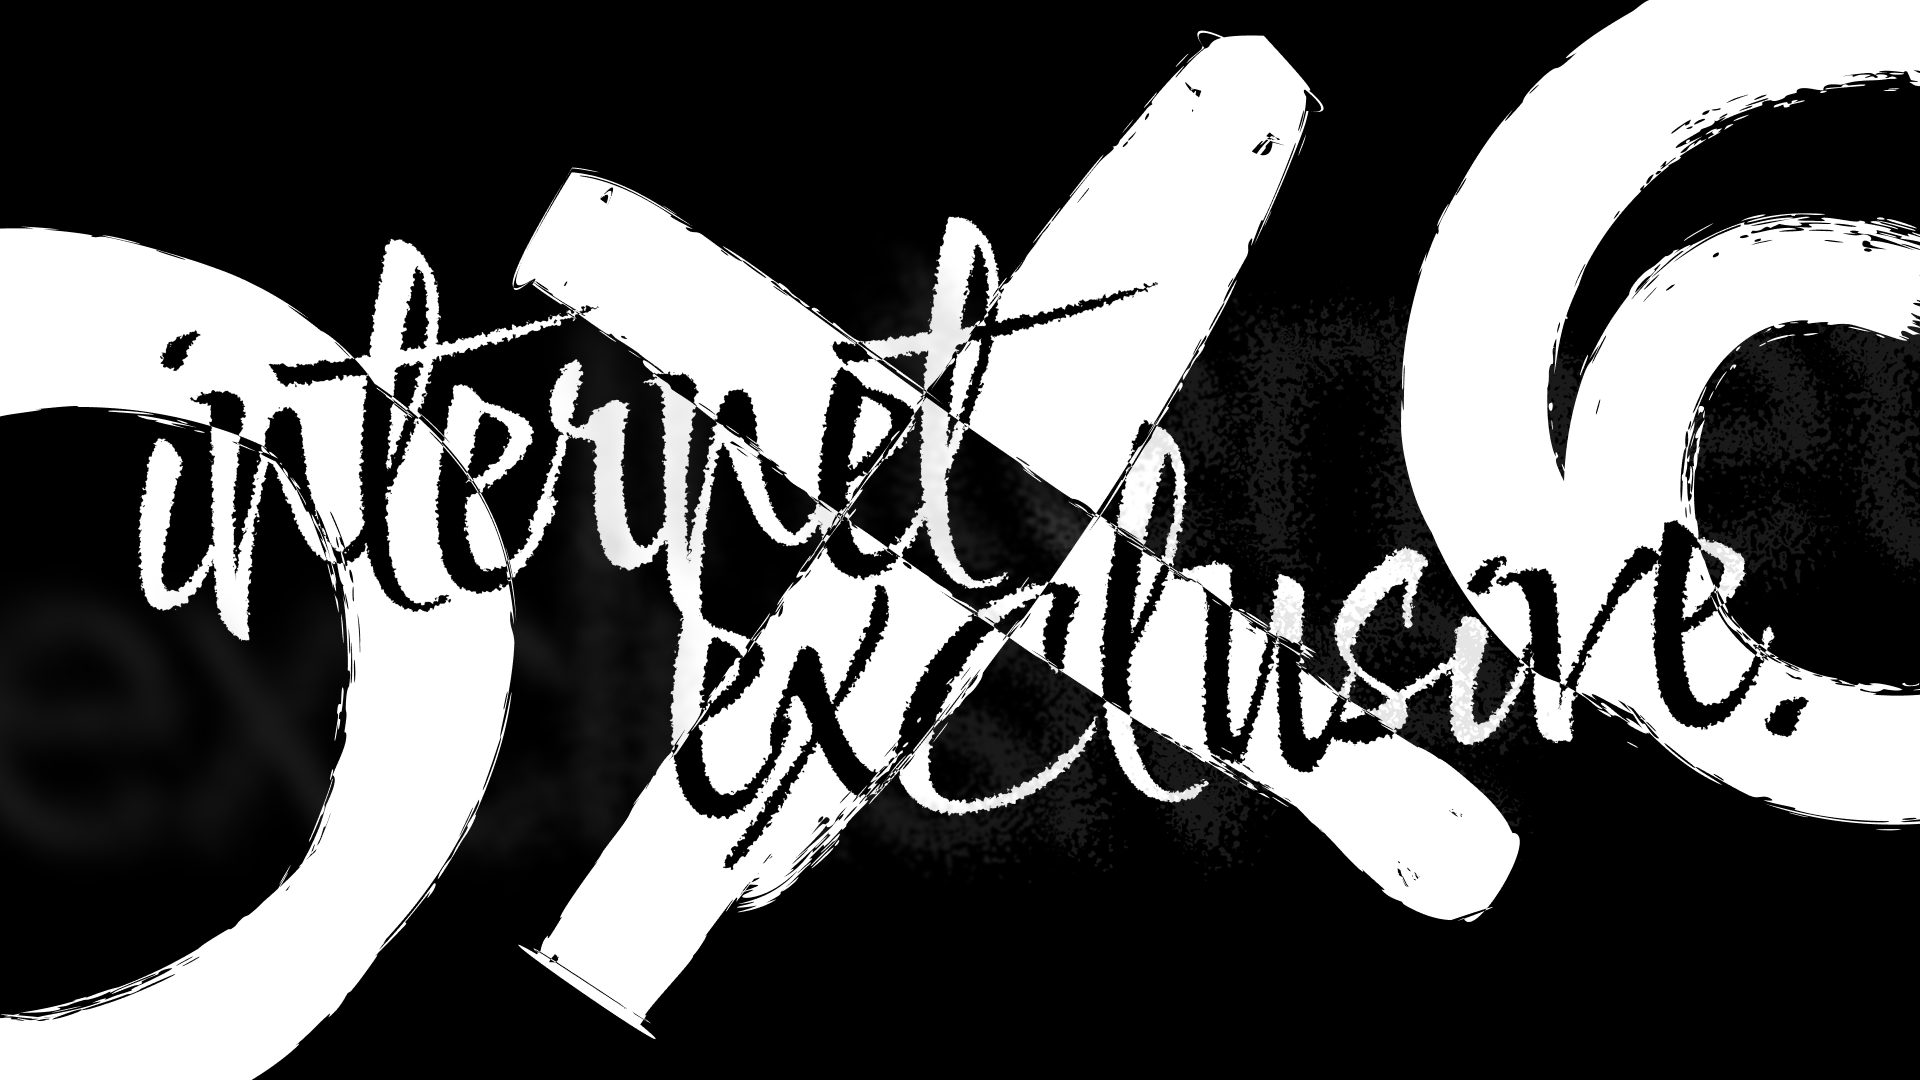
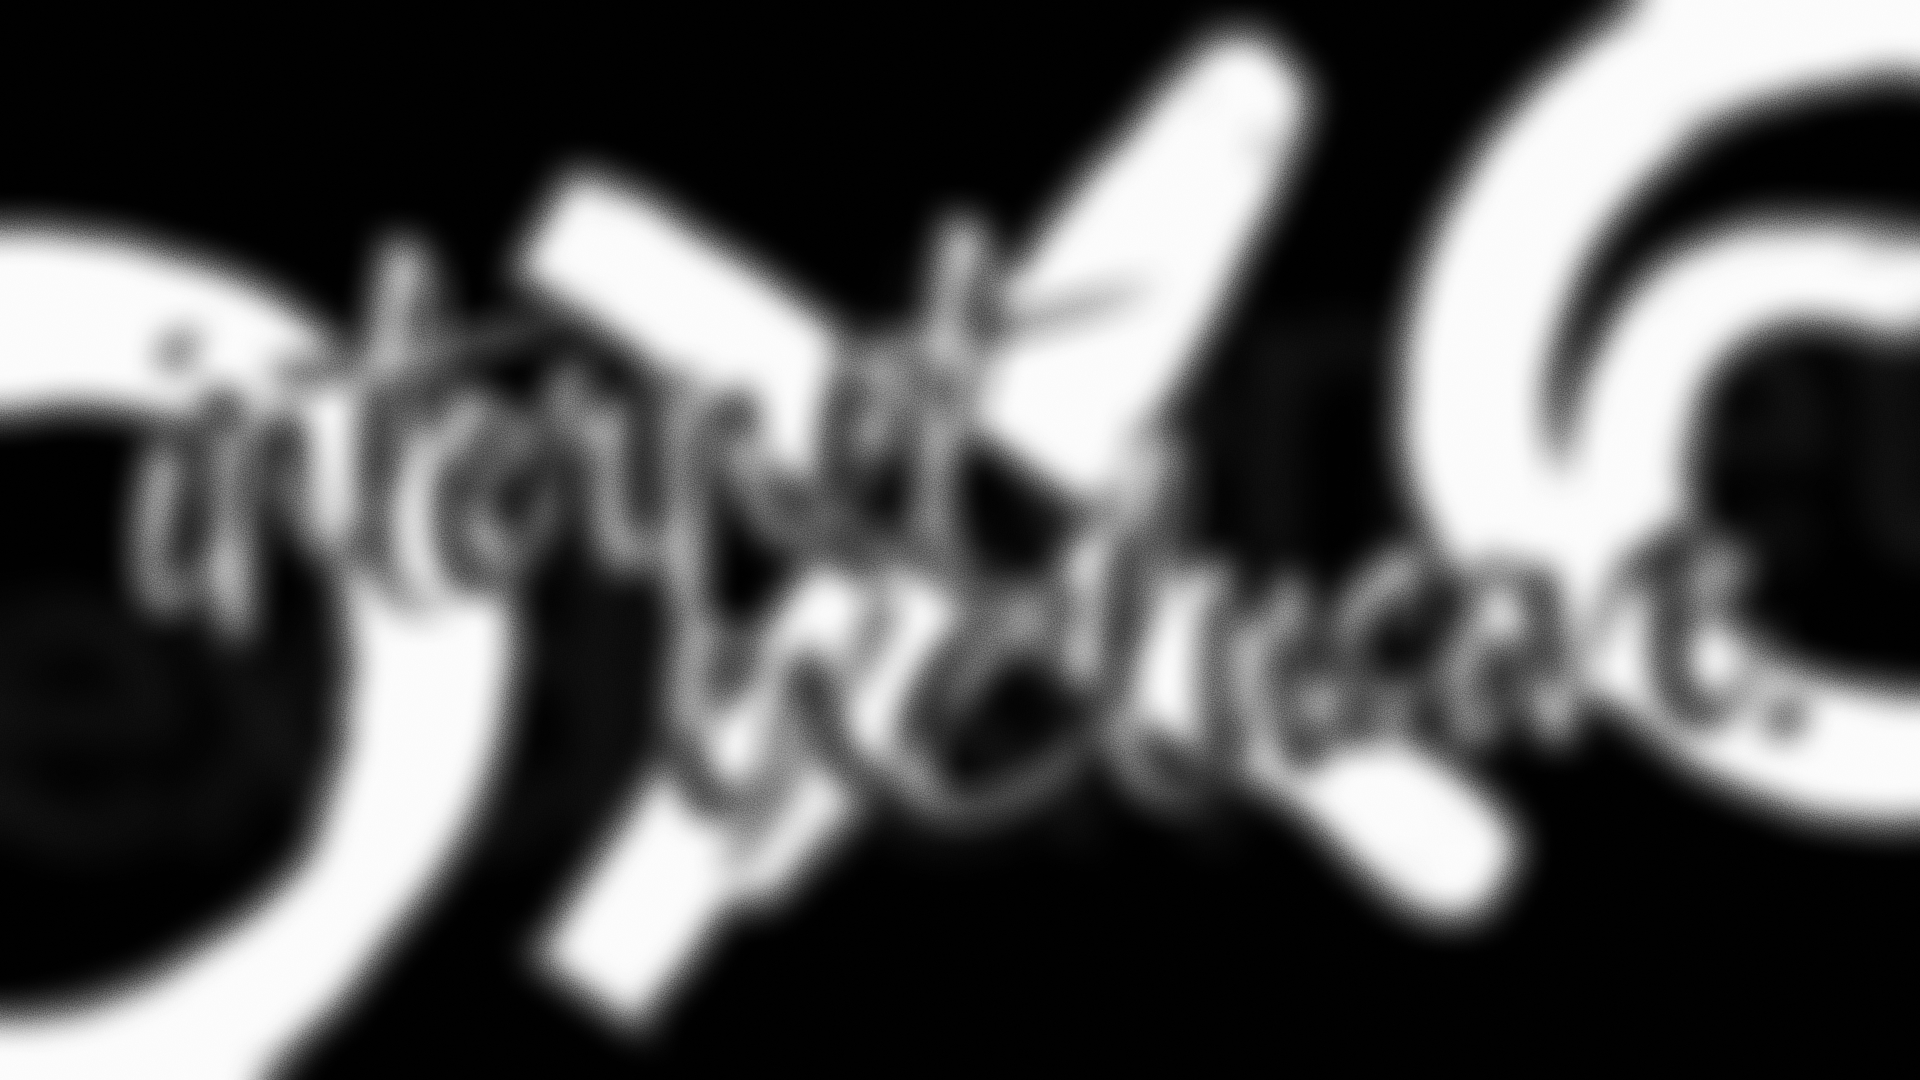
perf: use pre-blurred background image to improve performance

diff --git a/style.css b/style.css
@@ -106,7 +106,7 @@ footer {
   left: -2.5%;
   object-fit: cover;
   transform-origin: center;
-  filter: blur(12px);
+  /* filter: blur(12px); */
   will-change: transform;
   transition: opacity 1s;
   opacity: 0;
